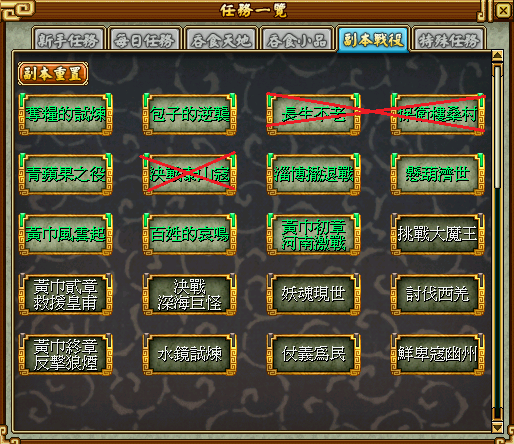
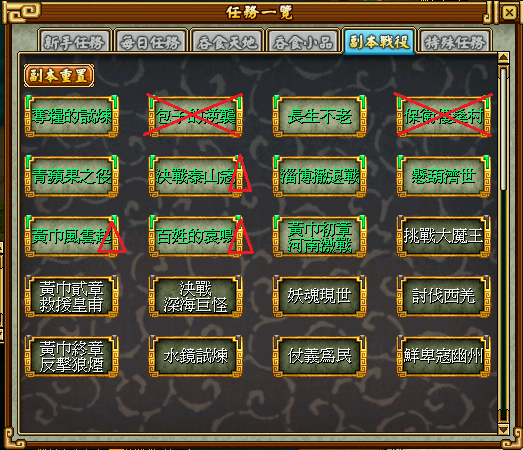
update dungeon image and summary

diff --git a/README.md b/README.md
@@ -1,3 +1,8 @@
+# 索引
+- [特別獎勵](#specialRewards)
+- [經驗和武點來源](#expAndSp)
+
+<a id="specialRewards"></a>
 # 特別獎勵
 1. [連線獎勵](#connectionReward)
 1. [福利巴豆妖問答 (可拿五株，每天一次)](#welfareBaDouYao)
@@ -19,6 +24,7 @@
     <br> ![effortBaDouYao](pictures/effortBaDouYao.png)
 # ====================================
 
+<a id="expAndSp"></a>
 # 經驗和武點來源
 1. [副本 (一天五次，少數副本除外，拿小布包或裝備用的)](#dungeon)
 1. [官府任務 (需組隊，每個地區一天三次)](#government)
@@ -27,10 +33,14 @@
 
 <a id="dungeon"></a>
 *   ## 副本
-    ### 說明：主要是打小布包和裝備用的，打叉的是幾乎沒人打，前面10~20等 (奪糧、包逆、蘋果) 可打可不打，因為裝備很快就汰換掉了
+    ### 說明：
+    1. 主要是打小布包和裝備用的
+    2. 打叉的是幾乎沒人打，
+    3. 打三角形是缺裝備再打
+    4. 前面10~20等副本可打可不打，因為裝備很快就汰換掉了
     ### 各副本說明：
     ### 奪糧的試煉(Lv10)：奪糧、9包 (9包由來是一場最多可以拿9個土黃布包)
-    ### 包子的逆襲(Lv10)：包逆
+    ### 包子的逆襲(Lv10)：包逆 (礦工很難救)
     ### 長生不老(Lv10)：
     ### 保衛樓桑村(Lv20)：保衛村長、村長 (村長真的有夠爛)
     ### 青蘋果之役(Lv20)：青蘋果、蘋果
